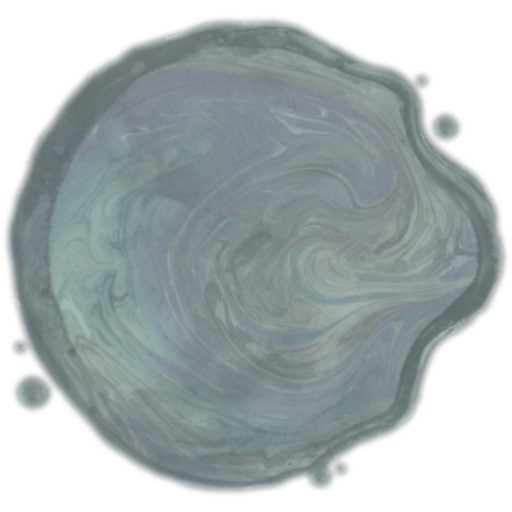
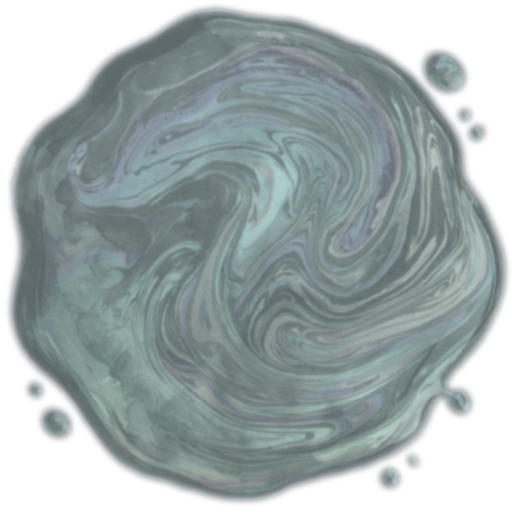
v0.1b.4: chiazze quasi ferme (2 fotogrammi, dissolvenza lenta, deriva minima)
Claude-Session: https://claude.ai/code/session_01EeKiG5jvctH63xT54nQhmM

diff --git a/www/index.html b/www/index.html
@@ -40,7 +40,7 @@
    =========================================================================== */
 //#region config
 const CFG = {
-  VERSION: 'v0.1b.3',
+  VERSION: 'v0.1b.4',
   SEED: 12345,            // seed fissa di prova: stesso mondo per tutti i test
   TILE: 64,               // px per tessera (in gioco). I PNG di Muse sono a 4x: 256 px
   CHUNK: 16,              // tessere per lato di un chunk (16x16 -> 1024 px)
@@ -48,6 +48,9 @@ const CFG = {
   DEPTH_SCALE: 14,        // dimensione delle "macchie" di profondità, in tessere
   SLICK_P: 0.12,          // probabilità di una chiazza di prova per chunk
   SLICK_PETROLIO: 0.35,   // di queste, quota di «petrolio» (le altre sono «acqua»)
+  SLICK_PERIOD: 1.8,      // secondi tra un fotogramma e l'altro della chiazza (2 fotogrammi, quasi ferma)
+  SLICK_FADE: 1.0,        // secondi di dissolvenza incrociata dentro quel periodo
+  SLICK_DRIFT: 1.5,       // deriva in px (0 = ferma del tutto)
   RAFT_SPEED: 4,          // tessere al secondo, a joystick tutto spinto
   RAFT_ACCEL: 6,          // tessere/s^2 in accelerazione
   RAFT_BRAKE: 9,          // tessere/s^2 quando rilasci il joystick (si ferma in ~0,5 s)
@@ -142,12 +145,8 @@ const ASSETS = {
   zattera: 'assets/zattera/zattera_base.png',     // prua = lato corto SINISTRO (dal LEGGIMI di Muse)
   olio1: 'assets/olio/macchia_olio_1.png',
   olio2: 'assets/olio/macchia_olio_2.png',
-  olio3: 'assets/olio/macchia_olio_3.png',
-  olio4: 'assets/olio/macchia_olio_4.png',
   petr1: 'assets/olio/macchia_petrolio_1.png',
-  petr2: 'assets/olio/macchia_petrolio_2.png',
-  petr3: 'assets/olio/macchia_petrolio_3.png',
-  petr4: 'assets/olio/macchia_petrolio_4.png'
+  petr2: 'assets/olio/macchia_petrolio_2.png'
 };
 const A = {};
 function loadAssets() {
@@ -331,15 +330,19 @@ function drawSea(cx, cy) {                  // mare: tessere di Muse; basso/fond
   }
 }
 
-function drawSlicks(ox, oy) {               // chiazze: 4 fotogrammi lenti (~2 al secondo) + deriva di pochi px
-  const t = stats.t, F = [[A.olio1, A.olio2, A.olio3, A.olio4], [A.petr1, A.petr2, A.petr3, A.petr4]];
+function drawSlicks(ox, oy) {               // chiazze quasi ferme: 2 fotogrammi lenti con dissolvenza, deriva minima
+  const t = stats.t, F = [[A.olio1, A.olio2], [A.petr1, A.petr2]];
+  const P = CFG.SLICK_PERIOD, fadeStart = 1 - CFG.SLICK_FADE / P, D = CFG.SLICK_DRIFT;
   for (const ch of chunks.values()) for (const s of ch.slicks) {
     const frames = F[s.kind];
-    const px = s.x + ox + Math.sin(t * 0.45 + s.ph) * 14, py = s.y + oy + Math.cos(t * 0.37 + s.ph * 1.3) * 9;
+    const px = s.x + ox + Math.sin(t * 0.2 + s.ph) * D, py = s.y + oy + Math.cos(t * 0.17 + s.ph * 1.3) * D * 0.7;
     if (px < -80 || py < -80 || px > W + 80 || py > H + 80) continue;
-    const f = t * 2 + s.ph, i = Math.floor(f) % 4, a = f - Math.floor(f);
-    ctx.drawImage(frames[i], px - 64, py - 64, 128, 128);      // dolce passaggio al fotogramma dopo
-    ctx.globalAlpha = a; ctx.drawImage(frames[(i + 1) % 4], px - 64, py - 64, 128, 128); ctx.globalAlpha = 1;
+    const f = t / P + s.ph, k = Math.floor(f), u = f - k;
+    const a = u <= fadeStart ? 0 : (u - fadeStart) / (1 - fadeStart), sm = a * a * (3 - 2 * a);   // 0 per un po', poi dissolvenza morbida
+    const ba = sm > 0.5 ? 2 - 2 * sm : 1;                  // il fotogramma che esce si dissolve nella seconda metà: nessuno scatto al cambio
+    if (ba > 0) { ctx.globalAlpha = ba; ctx.drawImage(frames[k & 1], px - 64, py - 64, 128, 128); }
+    if (sm > 0) { ctx.globalAlpha = sm; ctx.drawImage(frames[(k + 1) & 1], px - 64, py - 64, 128, 128); }
+    ctx.globalAlpha = 1;
   }
 }
 

diff --git a/CHANGELOG.md b/CHANGELOG.md
@@ -2,6 +2,13 @@
 Ogni modifica al gioco o al progetto aggiunge una riga qui, con la versione
 che l'utente vede in gioco. Versioni: `0.x` = progetto/prototipo, `1.0` = prima pubblicabile.
 
+## 0.1b.4 — 25 nov 2026 — in gioco si legge «v0.1b.4 · grafica Muse»
+- **Chiazze quasi ferme** (v3 di Muse, richiesta dell'utente: «troppe animazioni, meno, più statiche ma che diano sempre l'effetto»).
+- 2 fotogrammi per tipo (acqua / petrolio) invece di 4. Cambio ogni **1,8 s** con dissolvenza morbida di **1 s**; il resto del tempo la chiazza è ferma.
+- **Deriva ridotta** da ±14 px a **±1,5 px**, lentissima. Tutto regolabile in `CFG`: `SLICK_PERIOD` (1,8), `SLICK_FADE` (1,0), `SLICK_DRIFT` (1,5; 0 = ferma del tutto).
+- Misurato in simulatore: la variazione media tra due istanti a 0,1 s resta sotto 1,5/255 per canale (nessuno scatto al cambio di fotogramma). Il giudizio vero è a occhio sul telefono.
+- Tolti dal gioco i fotogrammi 3 e 4 delle v2 (restano nella repo come storico).
+
 ## 0.1b.3 — 25 nov 2026 — in gioco si legge «v0.1b.3 · grafica Muse»
 - **Chiazze v2 di Muse** (`gruppo-1-mare-v2`, approvate da Davide): colore intonato al mare, si riconoscono dai vortici e dalla superficie più liscia.
 - **Due tipi di chiazza:** «acqua» (leggera) e **«petrolio»** (più scura, per le zone inquinate). Nel mondo di prova ~1/3 sono petrolio. Vicino alla partenza ce n'è una per tipo: acqua in alto a destra, petrolio in basso a sinistra.

diff --git a/muse/2026-11-25-gruppo-1-mare-v3/RISPOSTA.md b/muse/2026-11-25-gruppo-1-mare-v3/RISPOSTA.md
@@ -1,0 +1,9 @@
+# RISPOSTA di Claude — Gruppo 1 v3 (chiazze quasi ferme)
+
+Montato in **v0.1b.4 · «grafica Muse»**. 4 PNG 512×512 RGBA validi (2 acqua + 2 petrolio), sostituiscono quelli della v2.
+
+- Cambio fotogramma ogni **1,8 s**, con dissolvenza incrociata di **1 s**; per il resto del tempo la chiazza sta ferma.
+- Deriva ridotta da ±14 px a **±1,5 px**, lentissima (regolabile: 0 = nessuna).
+- Misurato nel simulatore: variazione minima tra un istante e l'altro, senza scatti al cambio. L'effetto vero lo giudica Davide in gioco.
+
+STATO: risposta pronta
